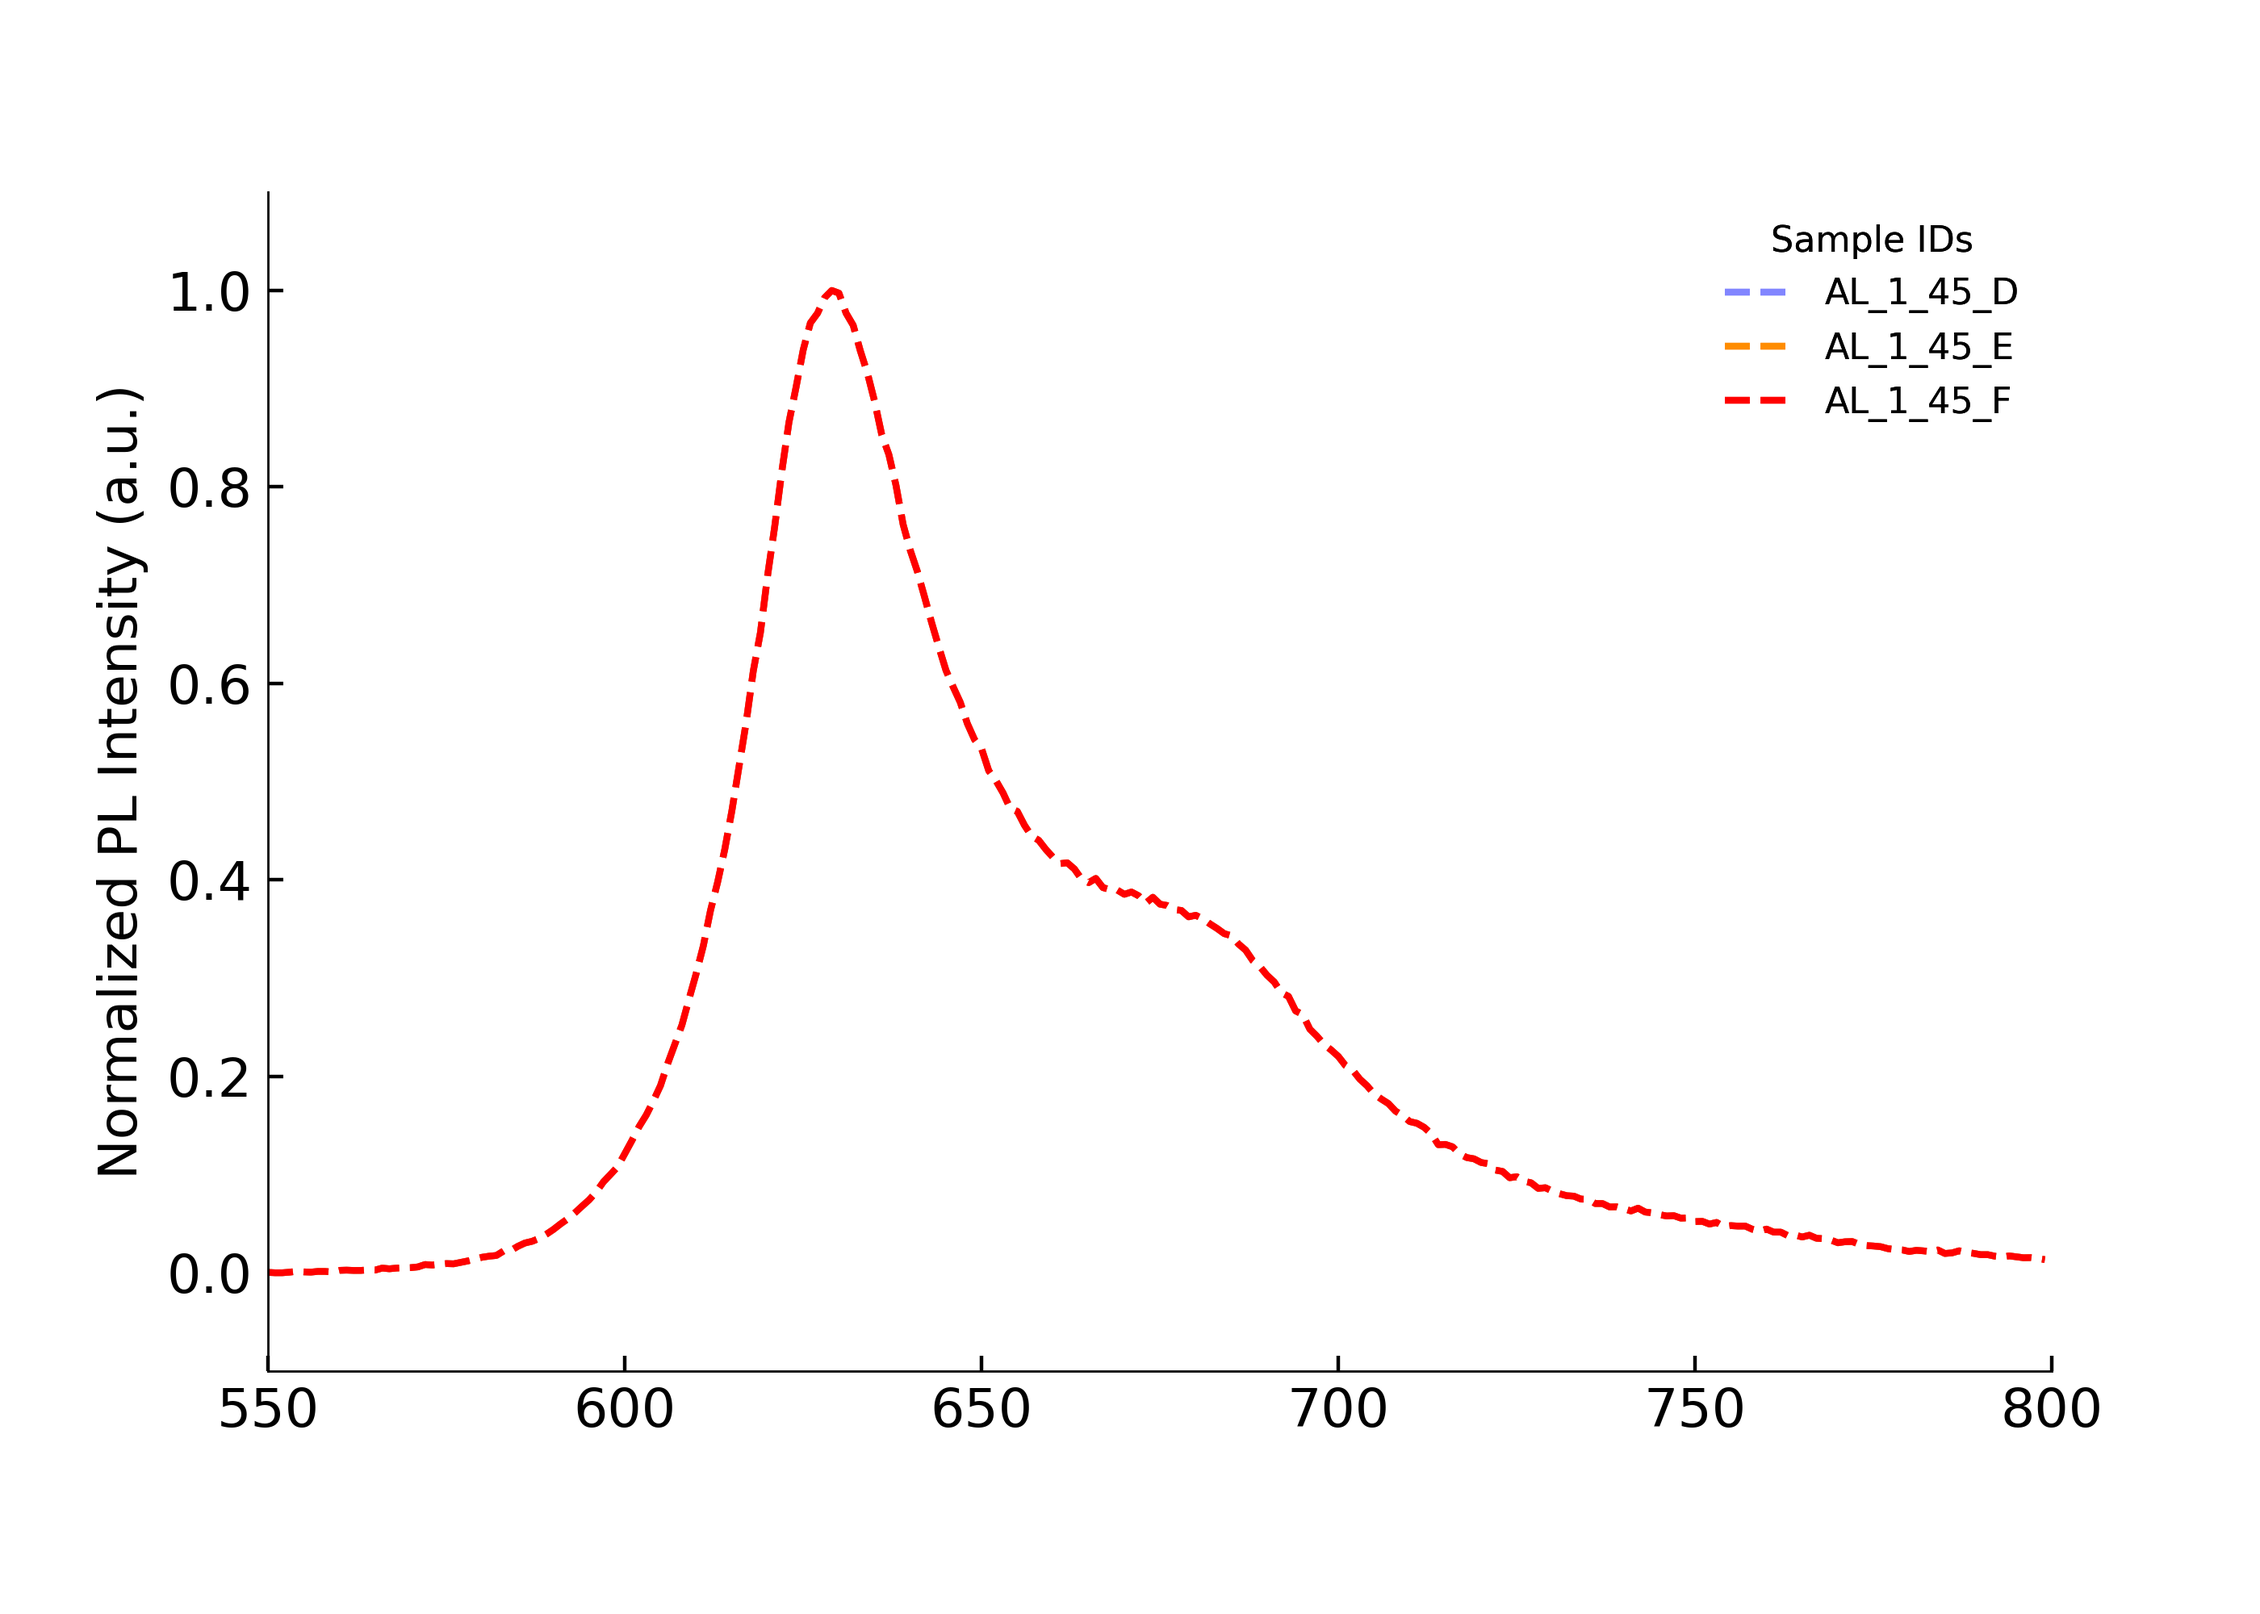
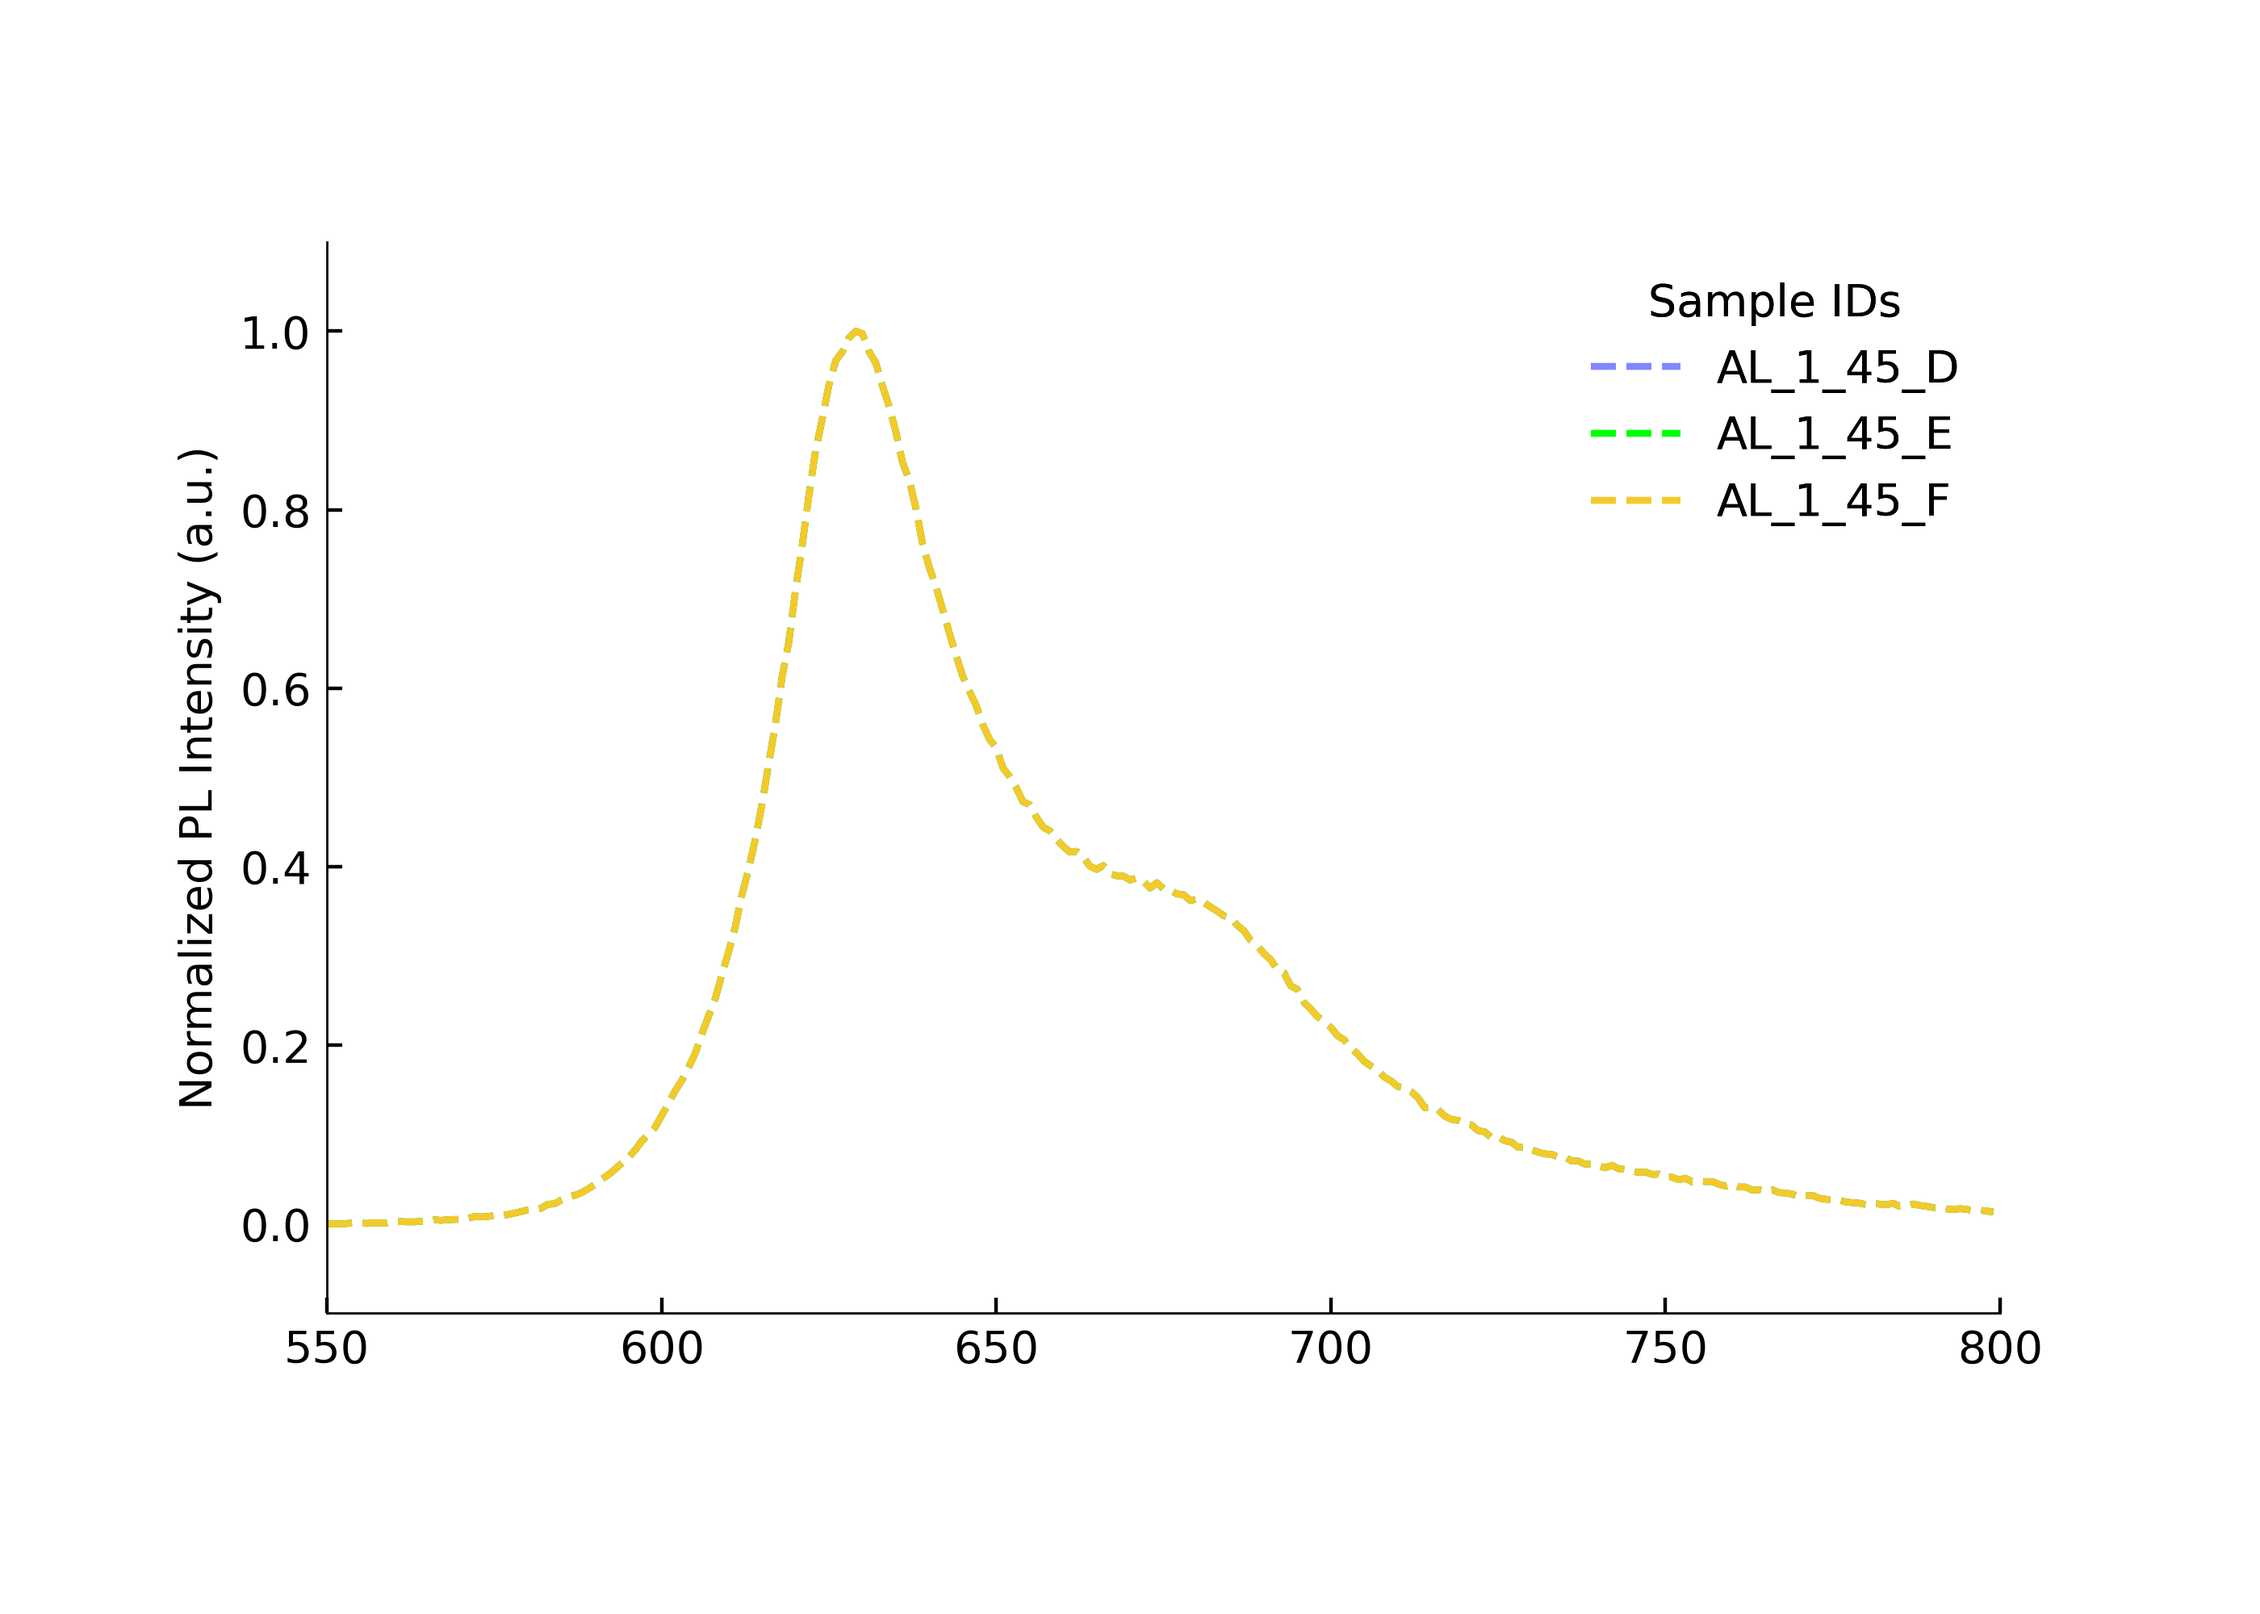
checked with Angela

diff --git a/code/photophysical/photophysical_plots.py b/code/photophysical/photophysical_plots.py
@@ -170,17 +170,23 @@ class PhotophysicalPlots:
         fig, ax = plt.subplots(figsize=(7, 5))
         plt.tight_layout(pad=5)
         # uv_vis plot
-        ax.set_xlabel("Wavelength (nm)", fontsize=12)
-        ax.set_ylabel("Normalized Absorbance (a.u.)", fontsize=12)
+        ax.set_xlabel("Wavelength (nm)", fontsize=self.style["fontsize"])
+        ax.set_ylabel("Normalized Absorbance (a.u.)", fontsize=self.style["fontsize"])
         ax.spines["top"].set_visible(False)
         ax.spines["right"].set_visible(False)
-        ax.tick_params(axis="both", which="major", labelsize=12, direction="in")
+        ax.tick_params(
+            axis="both", which="major", labelsize=self.style["fontsize"], direction="in"
+        )
         # pl plot
         ax2 = ax.twinx()
-        ax2.set_ylabel("Normalized PL Intensity (a.u.)", fontsize=12)
+        ax2.set_ylabel(
+            "Normalized PL Intensity (a.u.)", fontsize=self.style["fontsize"]
+        )
         ax2.spines["top"].set_visible(False)
         ax2.spines["left"].set_visible(False)
-        ax2.tick_params(axis="both", which="major", labelsize=12, direction="in")
+        ax2.tick_params(
+            axis="both", which="major", labelsize=self.style["fontsize"], direction="in"
+        )
         i = 0
         # TODO: photoluminescence
         uv_vis_data, pl_data = self.preprocess(drop_columns, normalize, baseline, xlim)
@@ -195,21 +201,21 @@ class PhotophysicalPlots:
                 uv_vis_data[uv_vis_expt_name + "_wavelength"],  # x-axis
                 uv_vis_data[uv_vis_expt_name + "_avg"],  # y-axis
                 label=label,
-                color=color,
+                color=self.style["color"][color],
             )
             ax2.plot(
                 pl_data[pl_expt_name + "_wavelength"],  # x-axis
                 pl_data[pl_expt_name + "_avg"],  # y-axis
                 label=label,
-                color=color,
-                linestyle="--",
+                color=self.style["color"][color],
+                linestyle="--",  # https://matplotlib.org/stable/gallery/lines_bars_and_markers/linestyles.html
             )
             i += 1
         legend = ax.legend(
             loc="upper right",
             frameon=False,
             title="Sample IDs",
-            fontsize=8,
+            fontsize=self.style["fontsize"],
         )
         ax.set_xlim(xlim)
         ax.set_ylim(ylim)
@@ -231,11 +237,13 @@ class PhotophysicalPlots:
         fig, ax = plt.subplots(figsize=(7, 5))
         plt.tight_layout(pad=5)
         # uv_vis plot
-        ax.set_xlabel("Wavelength (nm)", fontsize=12)
-        ax.set_ylabel("Normalized Absorbance (a.u.)", fontsize=12)
+        ax.set_xlabel("Wavelength (nm)", fontsize=self.style["fontsize"])
+        ax.set_ylabel("Normalized Absorbance (a.u.)", fontsize=self.style["fontsize"])
         ax.spines["top"].set_visible(False)
         ax.spines["right"].set_visible(False)
-        ax.tick_params(axis="both", which="major", labelsize=12, direction="in")
+        ax.tick_params(
+            axis="both", which="major", labelsize=self.style["fontsize"], direction="in"
+        )
         i = 0
         uv_vis_data, pl_data = self.preprocess(drop_columns, normalize, baseline, xlim)
 
@@ -248,14 +256,14 @@ class PhotophysicalPlots:
                 uv_vis_data[uv_vis_expt_name + "_wavelength"],  # x-axis
                 uv_vis_data[uv_vis_expt_name + "_avg"],  # y-axis
                 label=label,
-                color=color,
+                color=self.style["color"][color],
             )
             i += 1
         legend = ax.legend(
             loc="upper right",
             frameon=False,
             title="Sample IDs",
-            fontsize=8,
+            fontsize=self.style["fontsize"],
         )
         ax.set_xlim(xlim)
         ax.set_ylim(ylim)
@@ -277,10 +285,12 @@ class PhotophysicalPlots:
         fig, ax = plt.subplots(figsize=(7, 5))
         plt.tight_layout(pad=5)
         # pl plot
-        ax.set_ylabel("Normalized PL Intensity (a.u.)", fontsize=12)
+        ax.set_ylabel("Normalized PL Intensity (a.u.)", fontsize=self.style["fontsize"])
         ax.spines["top"].set_visible(False)
         ax.spines["right"].set_visible(False)
-        ax.tick_params(axis="both", which="major", labelsize=12, direction="in")
+        ax.tick_params(
+            axis="both", which="major", labelsize=self.style["fontsize"], direction="in"
+        )
         i = 0
         # TODO: photoluminescence
         uv_vis_data, pl_data = self.preprocess(drop_columns, normalize, baseline, xlim)
@@ -294,15 +304,15 @@ class PhotophysicalPlots:
                 pl_data[pl_expt_name + "_wavelength"],  # x-axis
                 pl_data[pl_expt_name + "_avg"],  # y-axis
                 label=label,
-                color=color,
-                linestyle="--",
+                color=self.style["color"][color],
+                linestyle="--",  # https://matplotlib.org/stable/gallery/lines_bars_and_markers/linestyles.html
             )
             i += 1
         legend = ax.legend(
             loc="upper right",
             frameon=False,
             title="Sample IDs",
-            fontsize=8,
+            fontsize=self.style["fontsize"],
         )
         ax.set_xlim(xlim)
         ax.set_ylim(ylim)

diff --git a/scripts/photophysical/run.py b/scripts/photophysical/run.py
@@ -45,7 +45,7 @@ photoluminescence_experiment_names: list[str] = [
 ]
 
 labels: list = ["AL_1_45_D", "AL_1_45_E", "AL_1_45_F"]
-
+colors = ["blue", "green", "yellow"]
 
 if __name__ == "__main__":
     uv_vis_plots = PhotophysicalPlots(
@@ -55,7 +55,7 @@ if __name__ == "__main__":
         uv_vis_experiment_names=uv_vis_experiment_names,
         photoluminescence_experiment_names=photoluminescence_experiment_names,
         labels=labels,
-        colors=["#8286ff", "#ff8c00", "#ff0000"],
+        colors=colors,
         result_dir=result_path,
         style_path=style_path,
     )
@@ -63,14 +63,14 @@ if __name__ == "__main__":
         drop_columns=[0, 1, 2, 3],
         normalize=True,
         baseline=True,
-        xlim=(300, 800),
+        xlim=(200, 800),
         ylim=(-0.1, 1.1),
     )
     uv_vis_plots.plot_uv_vis(
         drop_columns=[0, 1, 2, 3],
         normalize=True,
         baseline=True,
-        xlim=(300, 800),
+        xlim=(200, 800),
         ylim=(-0.1, 1.1),
     )
     uv_vis_plots.plot_pl(
